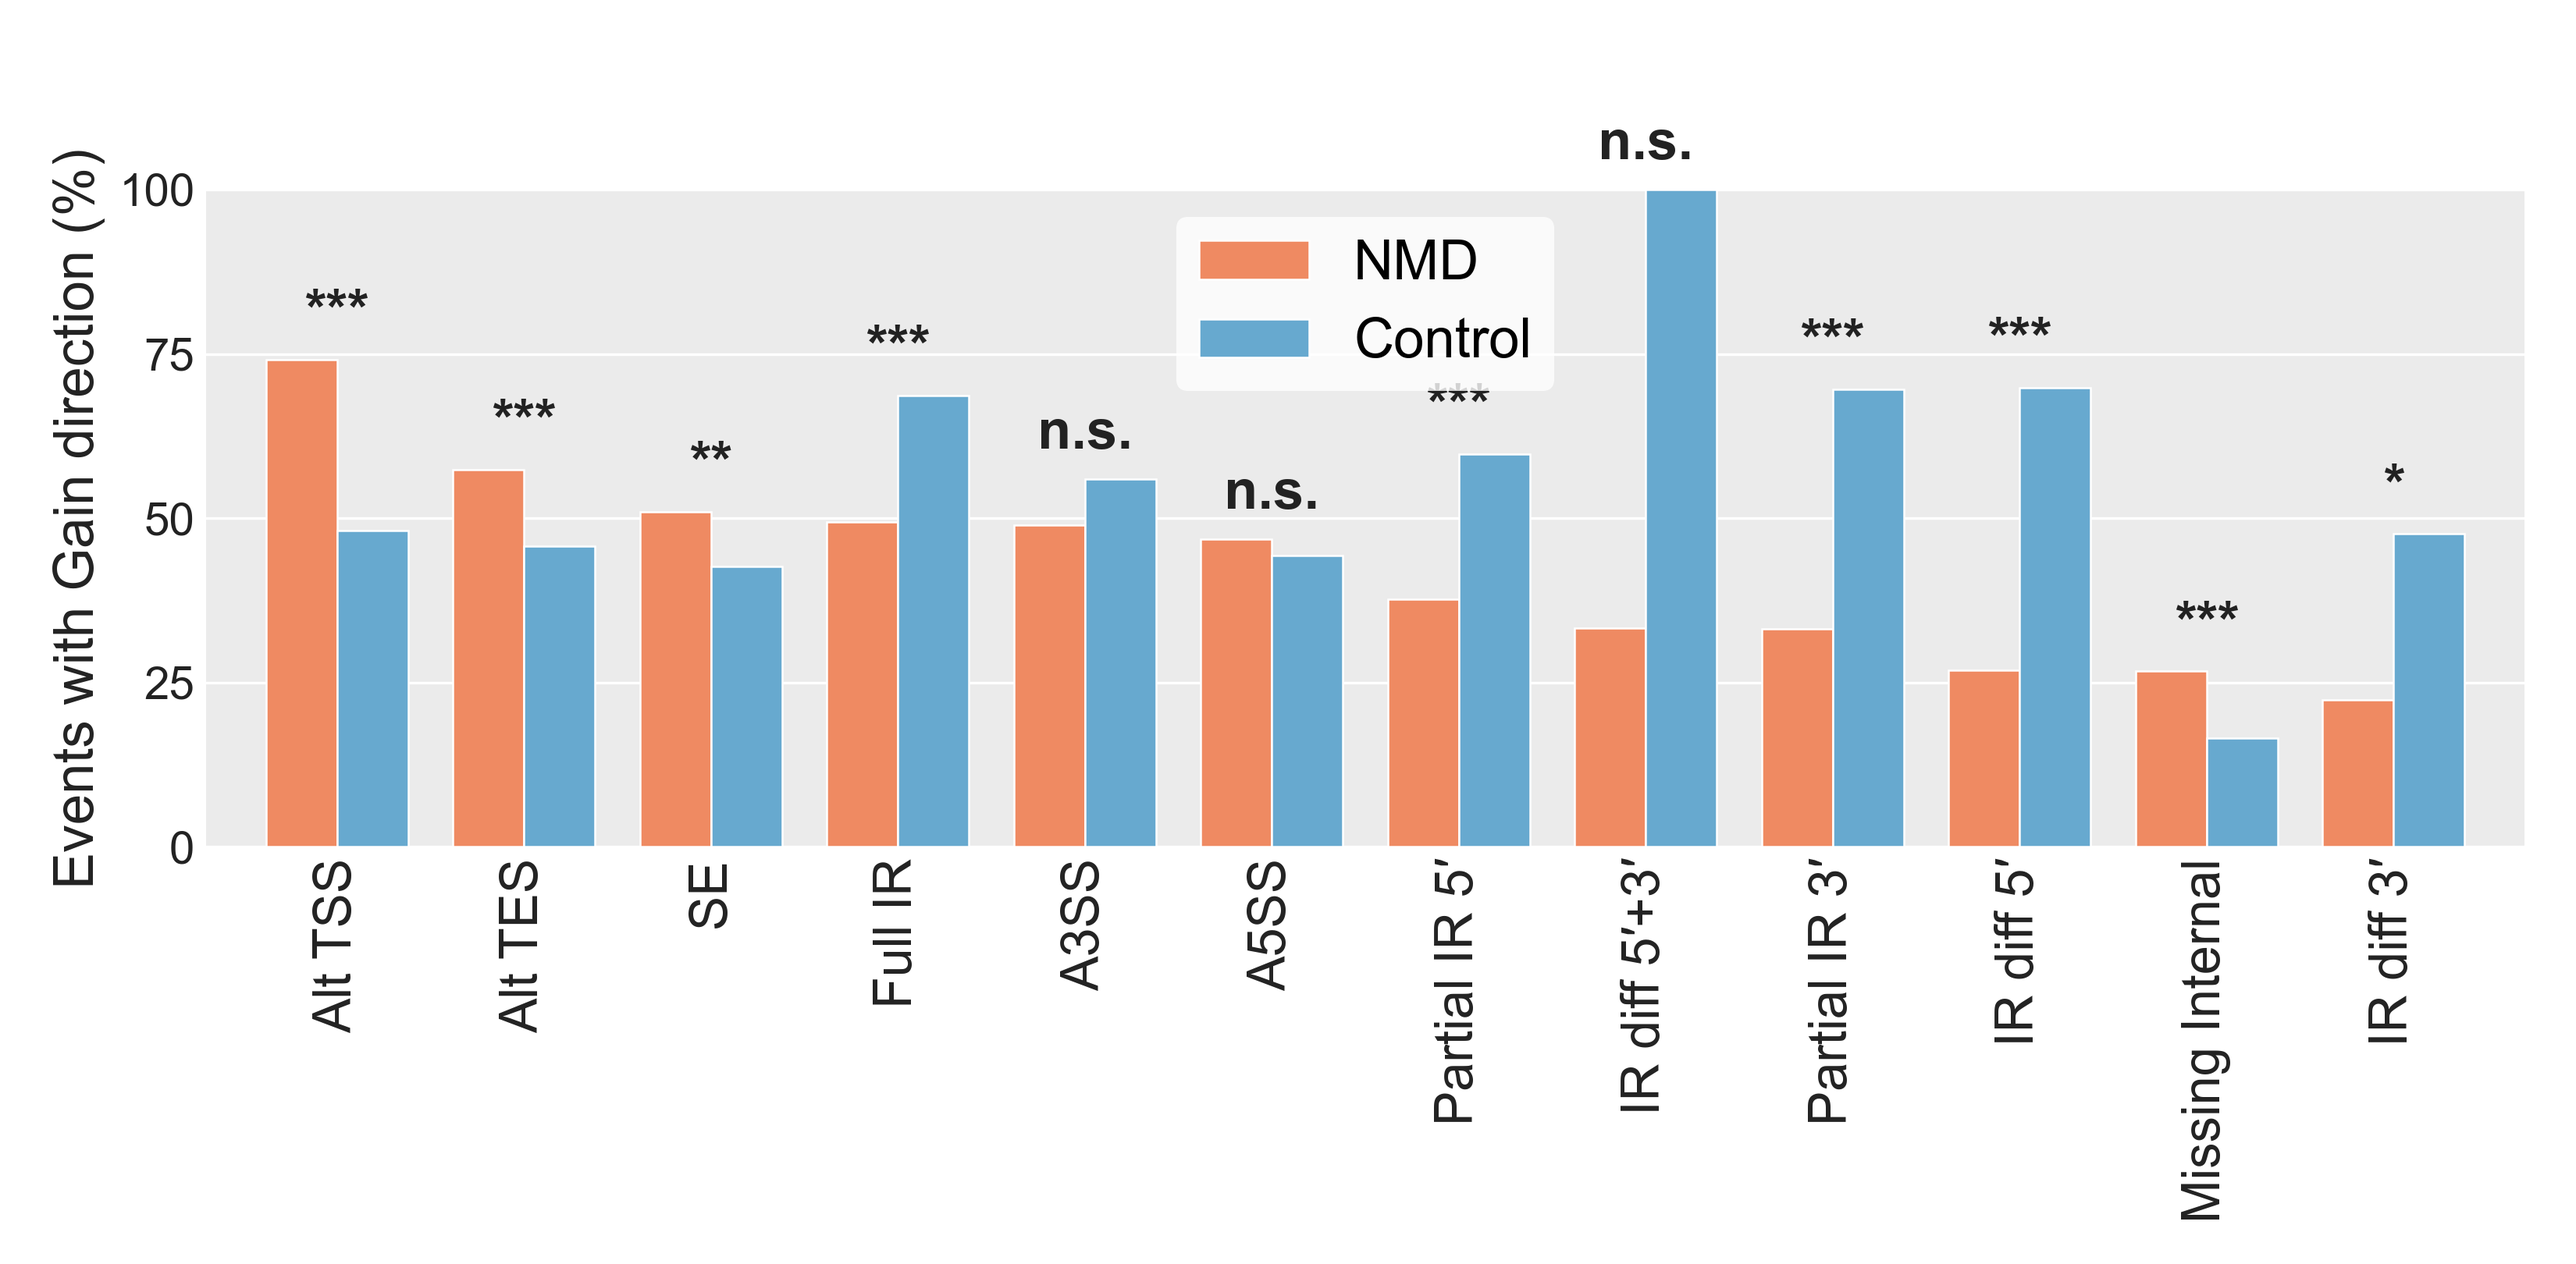
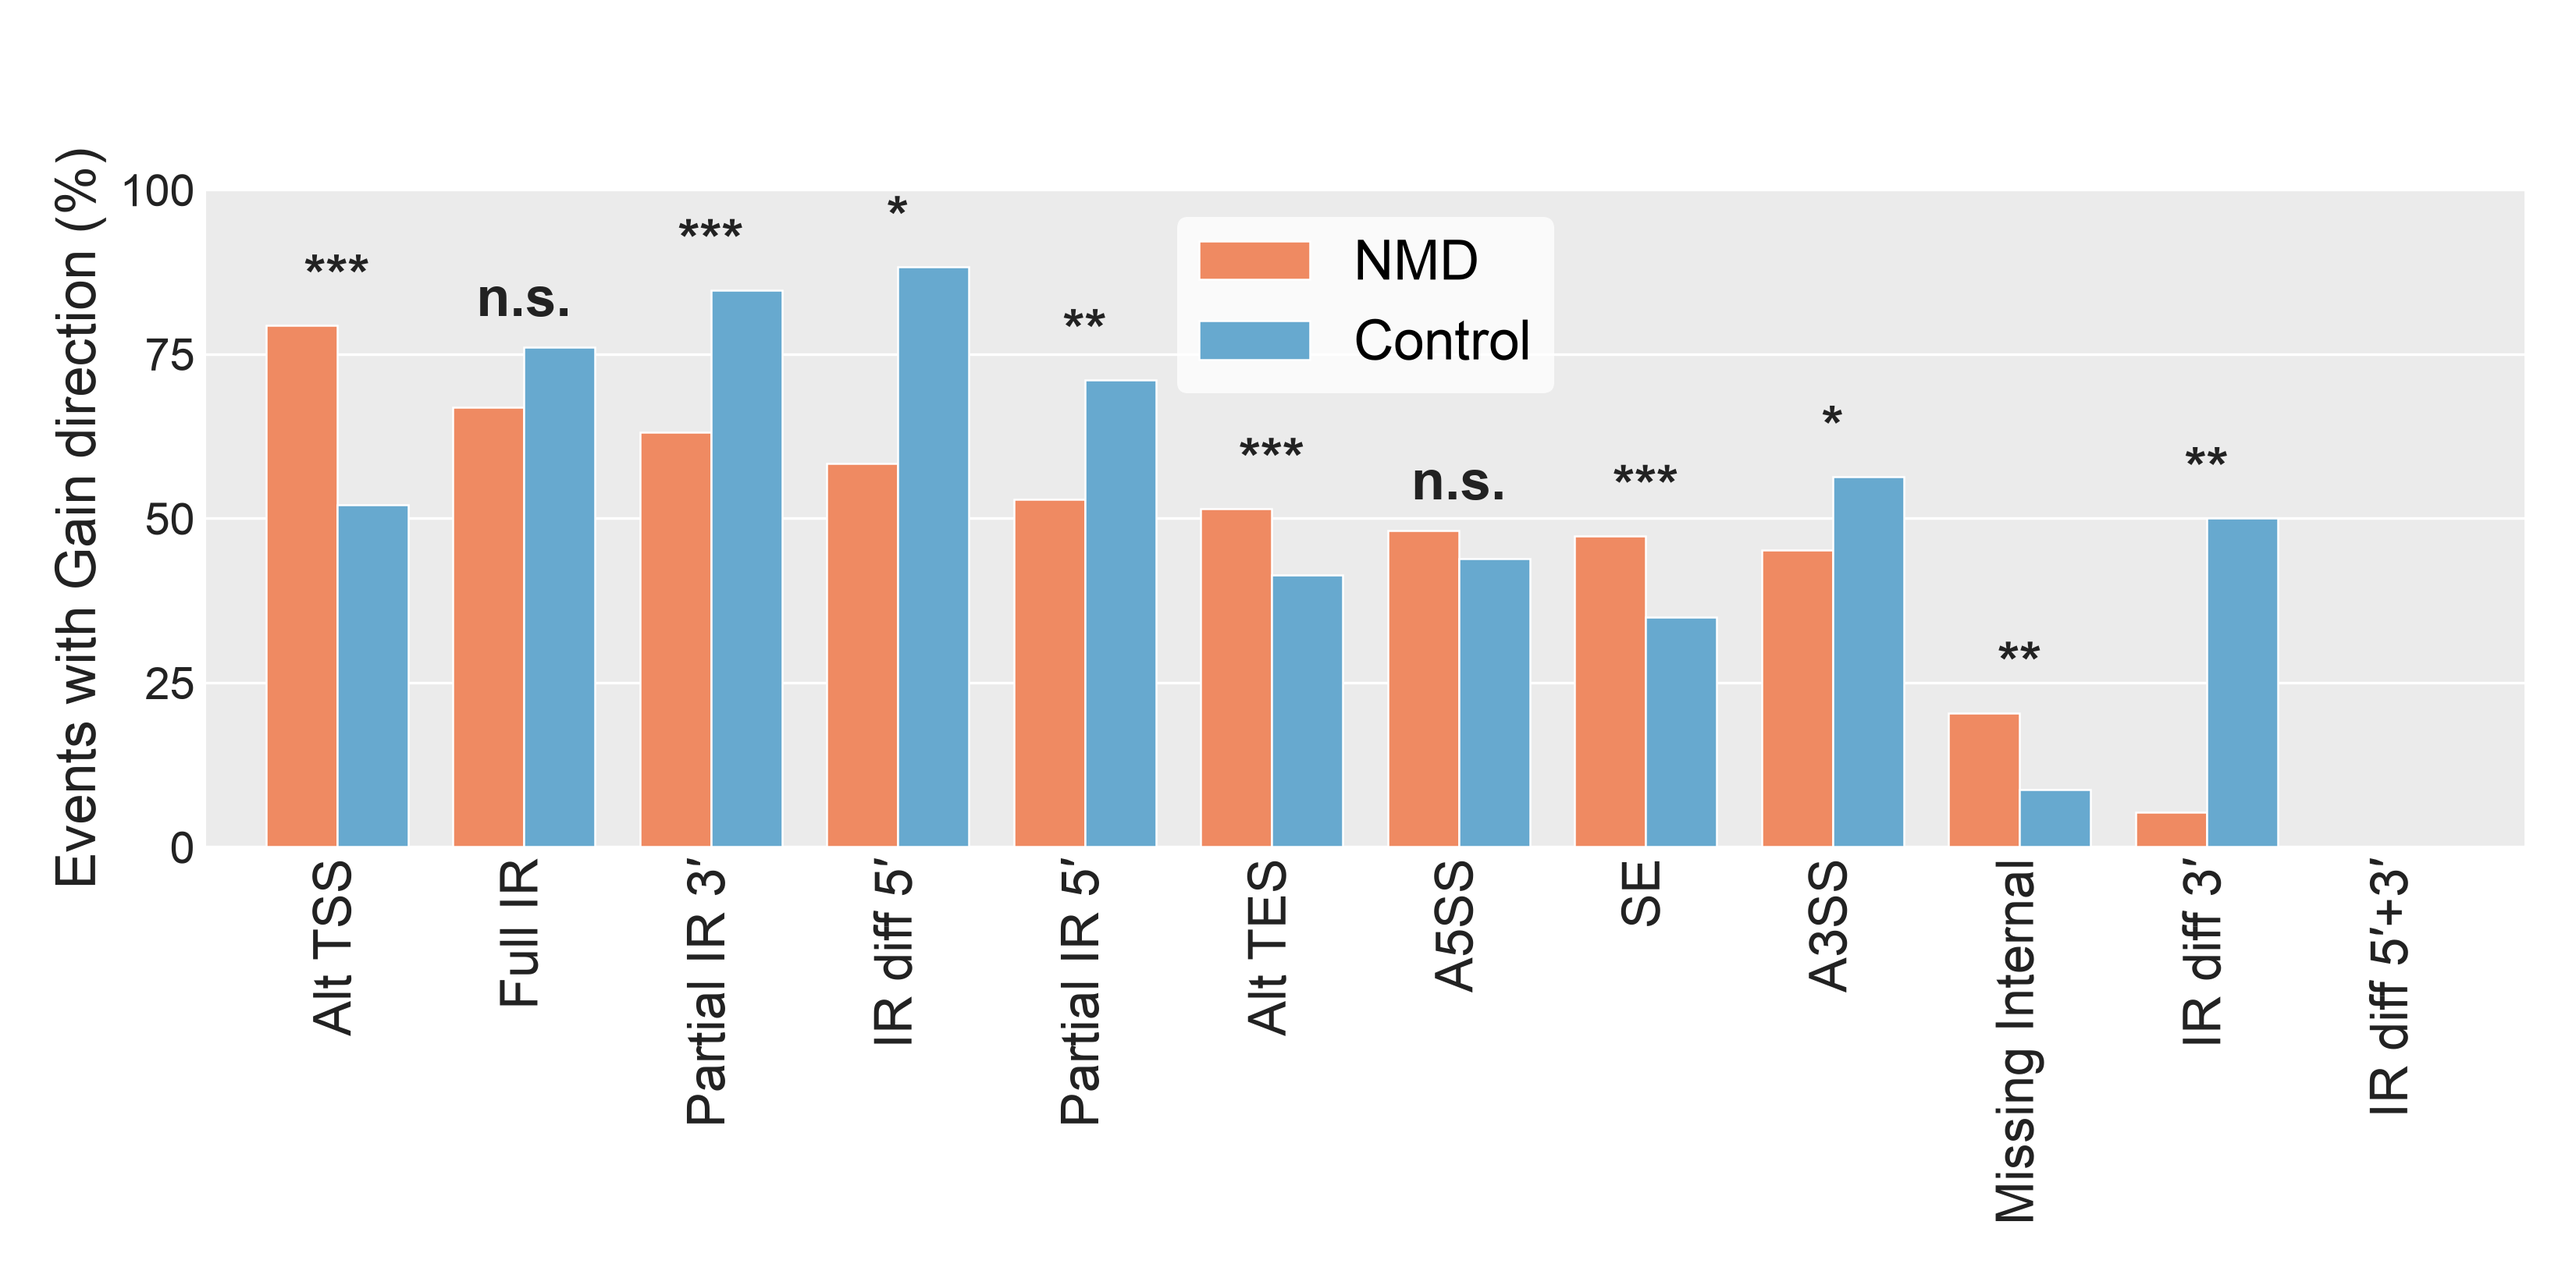
Rebuild SF29 gain-direction figure for reference floor
Replace the deprecated legacy-Rmd producer with a standalone data_export.R
reproducing the goal1-table1c-gain-loss logic on floored pop_BC-matched
profiles (detailed_events GAIN/LOSS per event type; Fisher per type). Counts
scale ~0.53x (pop_BC 3,009->1,585). Story holds: Alt TSS/TES + SE gain more
in NMD, IR/partial-IR gain more in Control (IR itself now n.s., p=0.111).

diff --git a/figures/SupplementalFigures/SF29_GainDirectionByEvent/figure_sf29_gain_direction_by_event.py b/figures/SupplementalFigures/SF29_GainDirectionByEvent/figure_sf29_gain_direction_by_event.py
@@ -9,7 +9,8 @@ Sorted by NMD-side %GAIN, descending.
 Significance stars: Fisher's exact test on the 2×2 (GAIN/LOSS × NMD/Control)
 count table for each event type.
 
-Data source: Isopair pipeline canonical `table1c_gain_loss_events.csv`
+Data source: `table1c_gain_loss_events.csv` (rebuilt by this dir's data_export.R
+on floored pop_BC-matched profiles; the legacy-Rmd producer is deprecated)
 (from `05_final_report_mashr.Rmd` § "Gain/Loss Direction by Event Type").
 """
 
